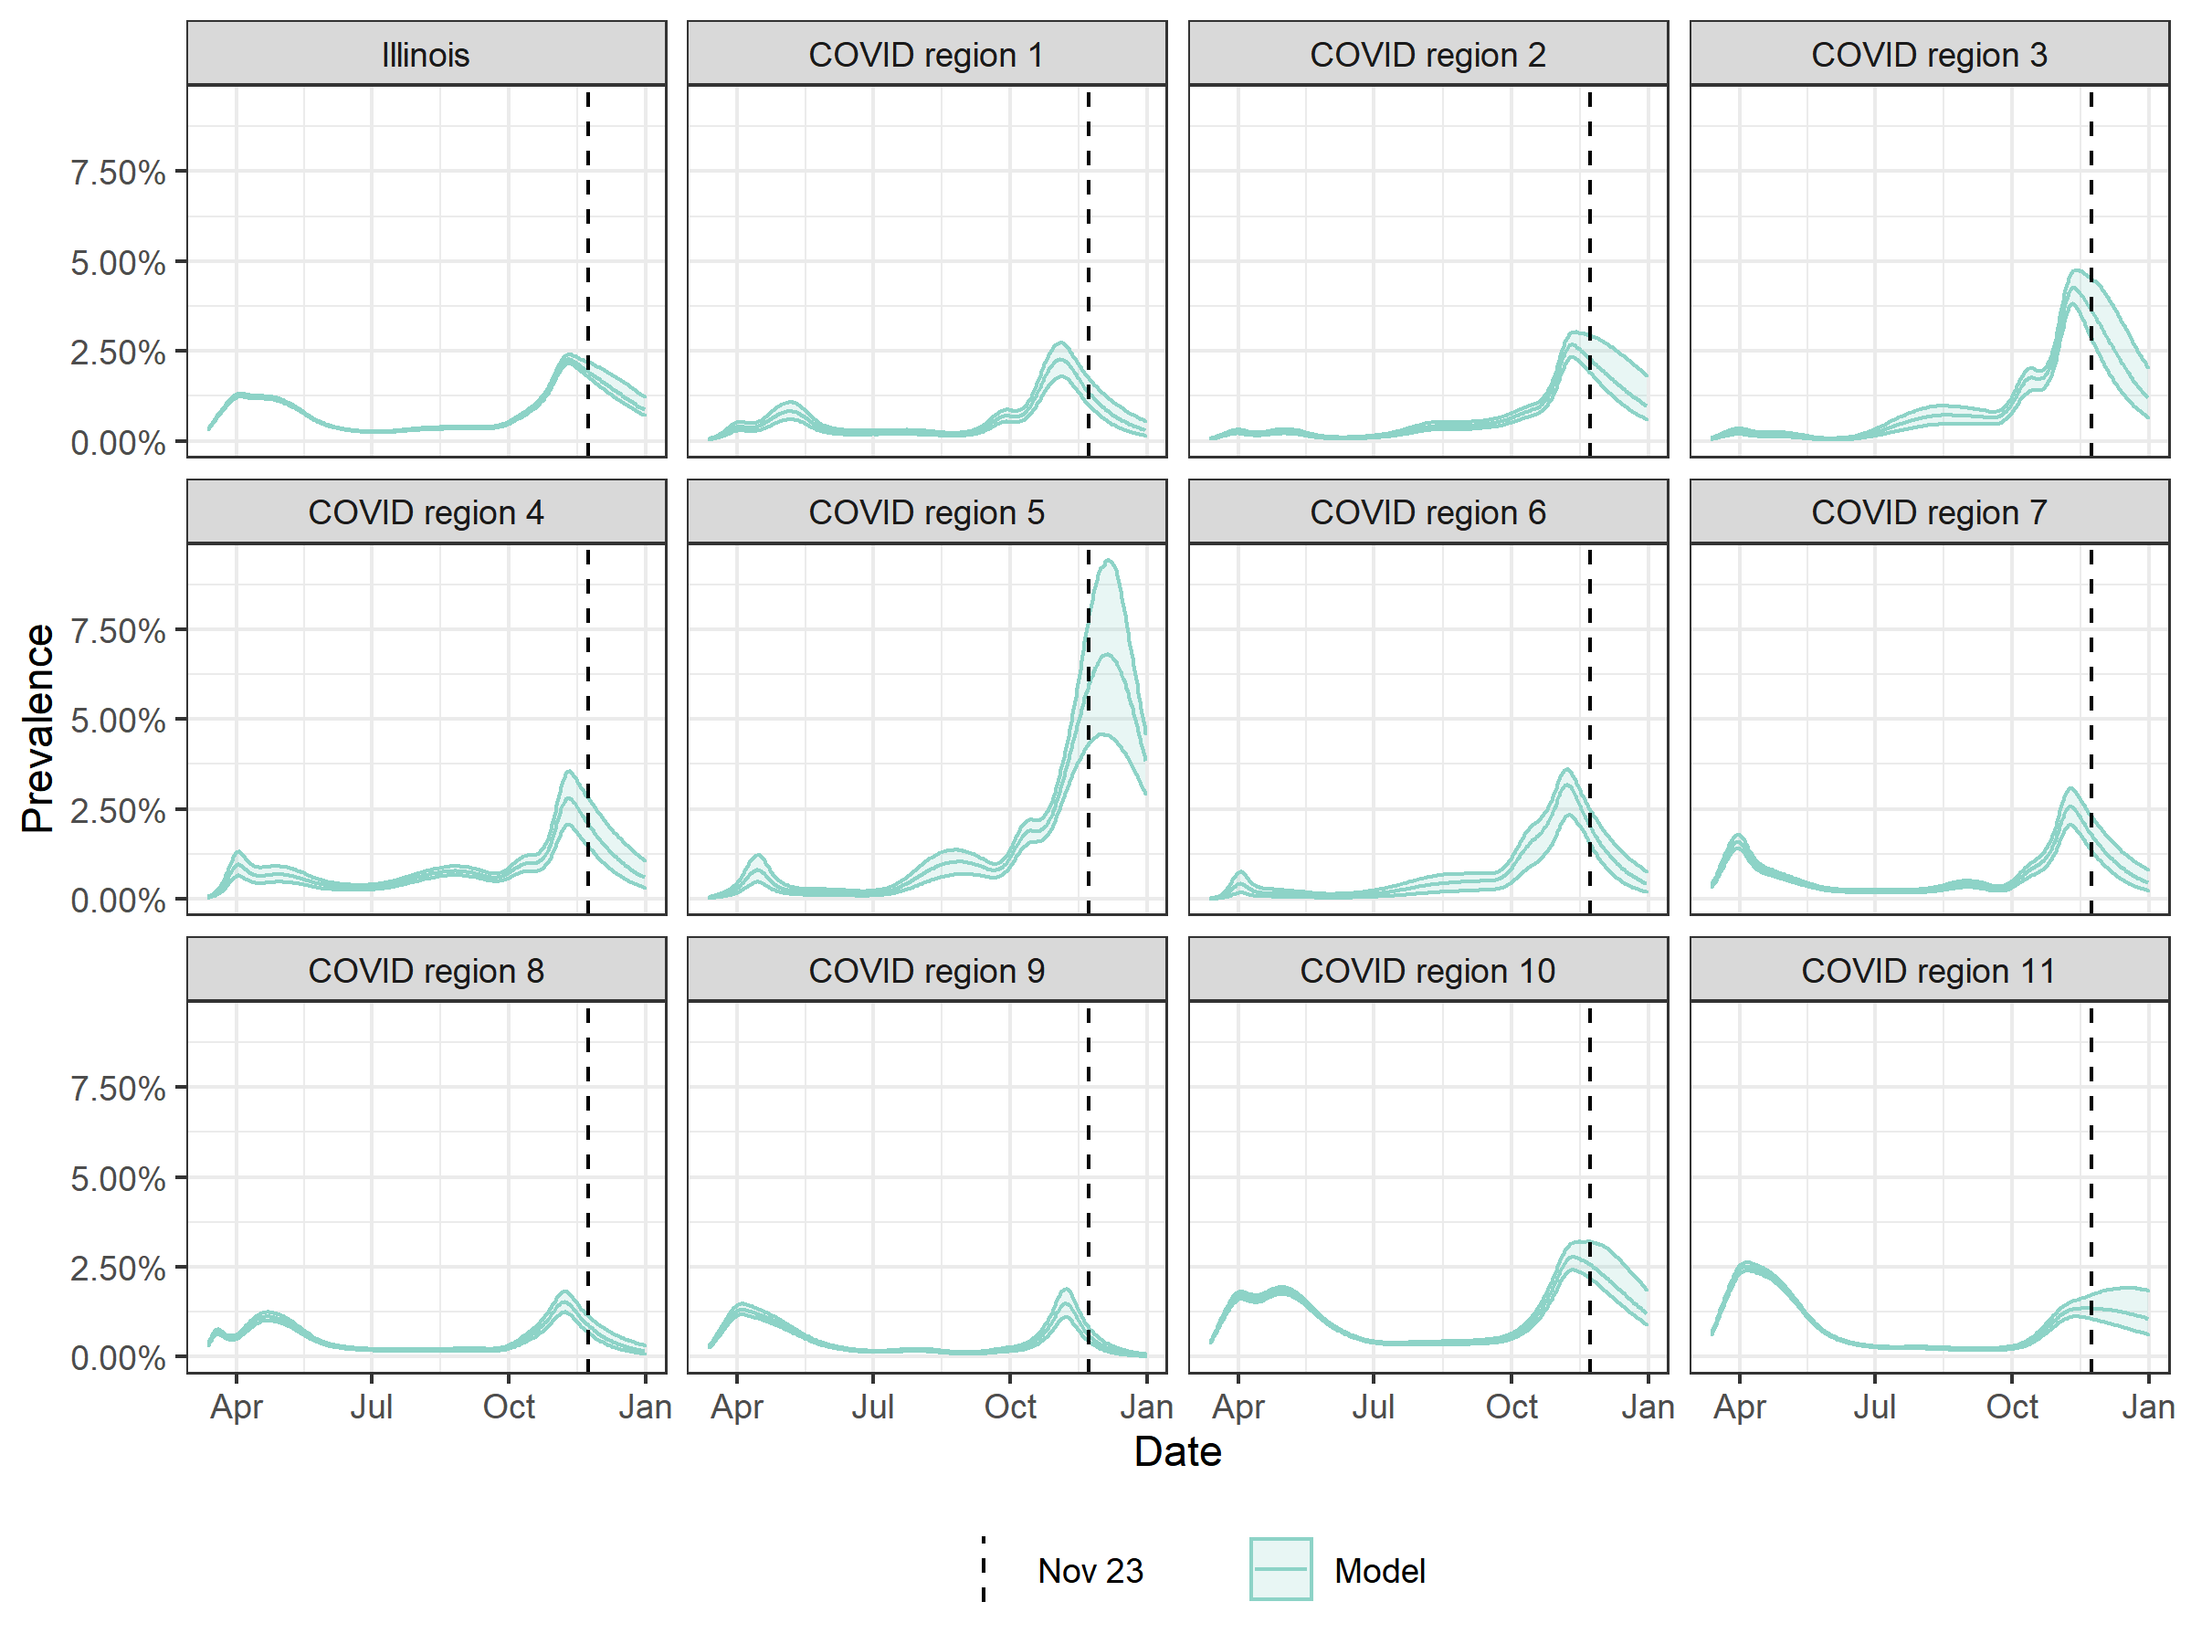
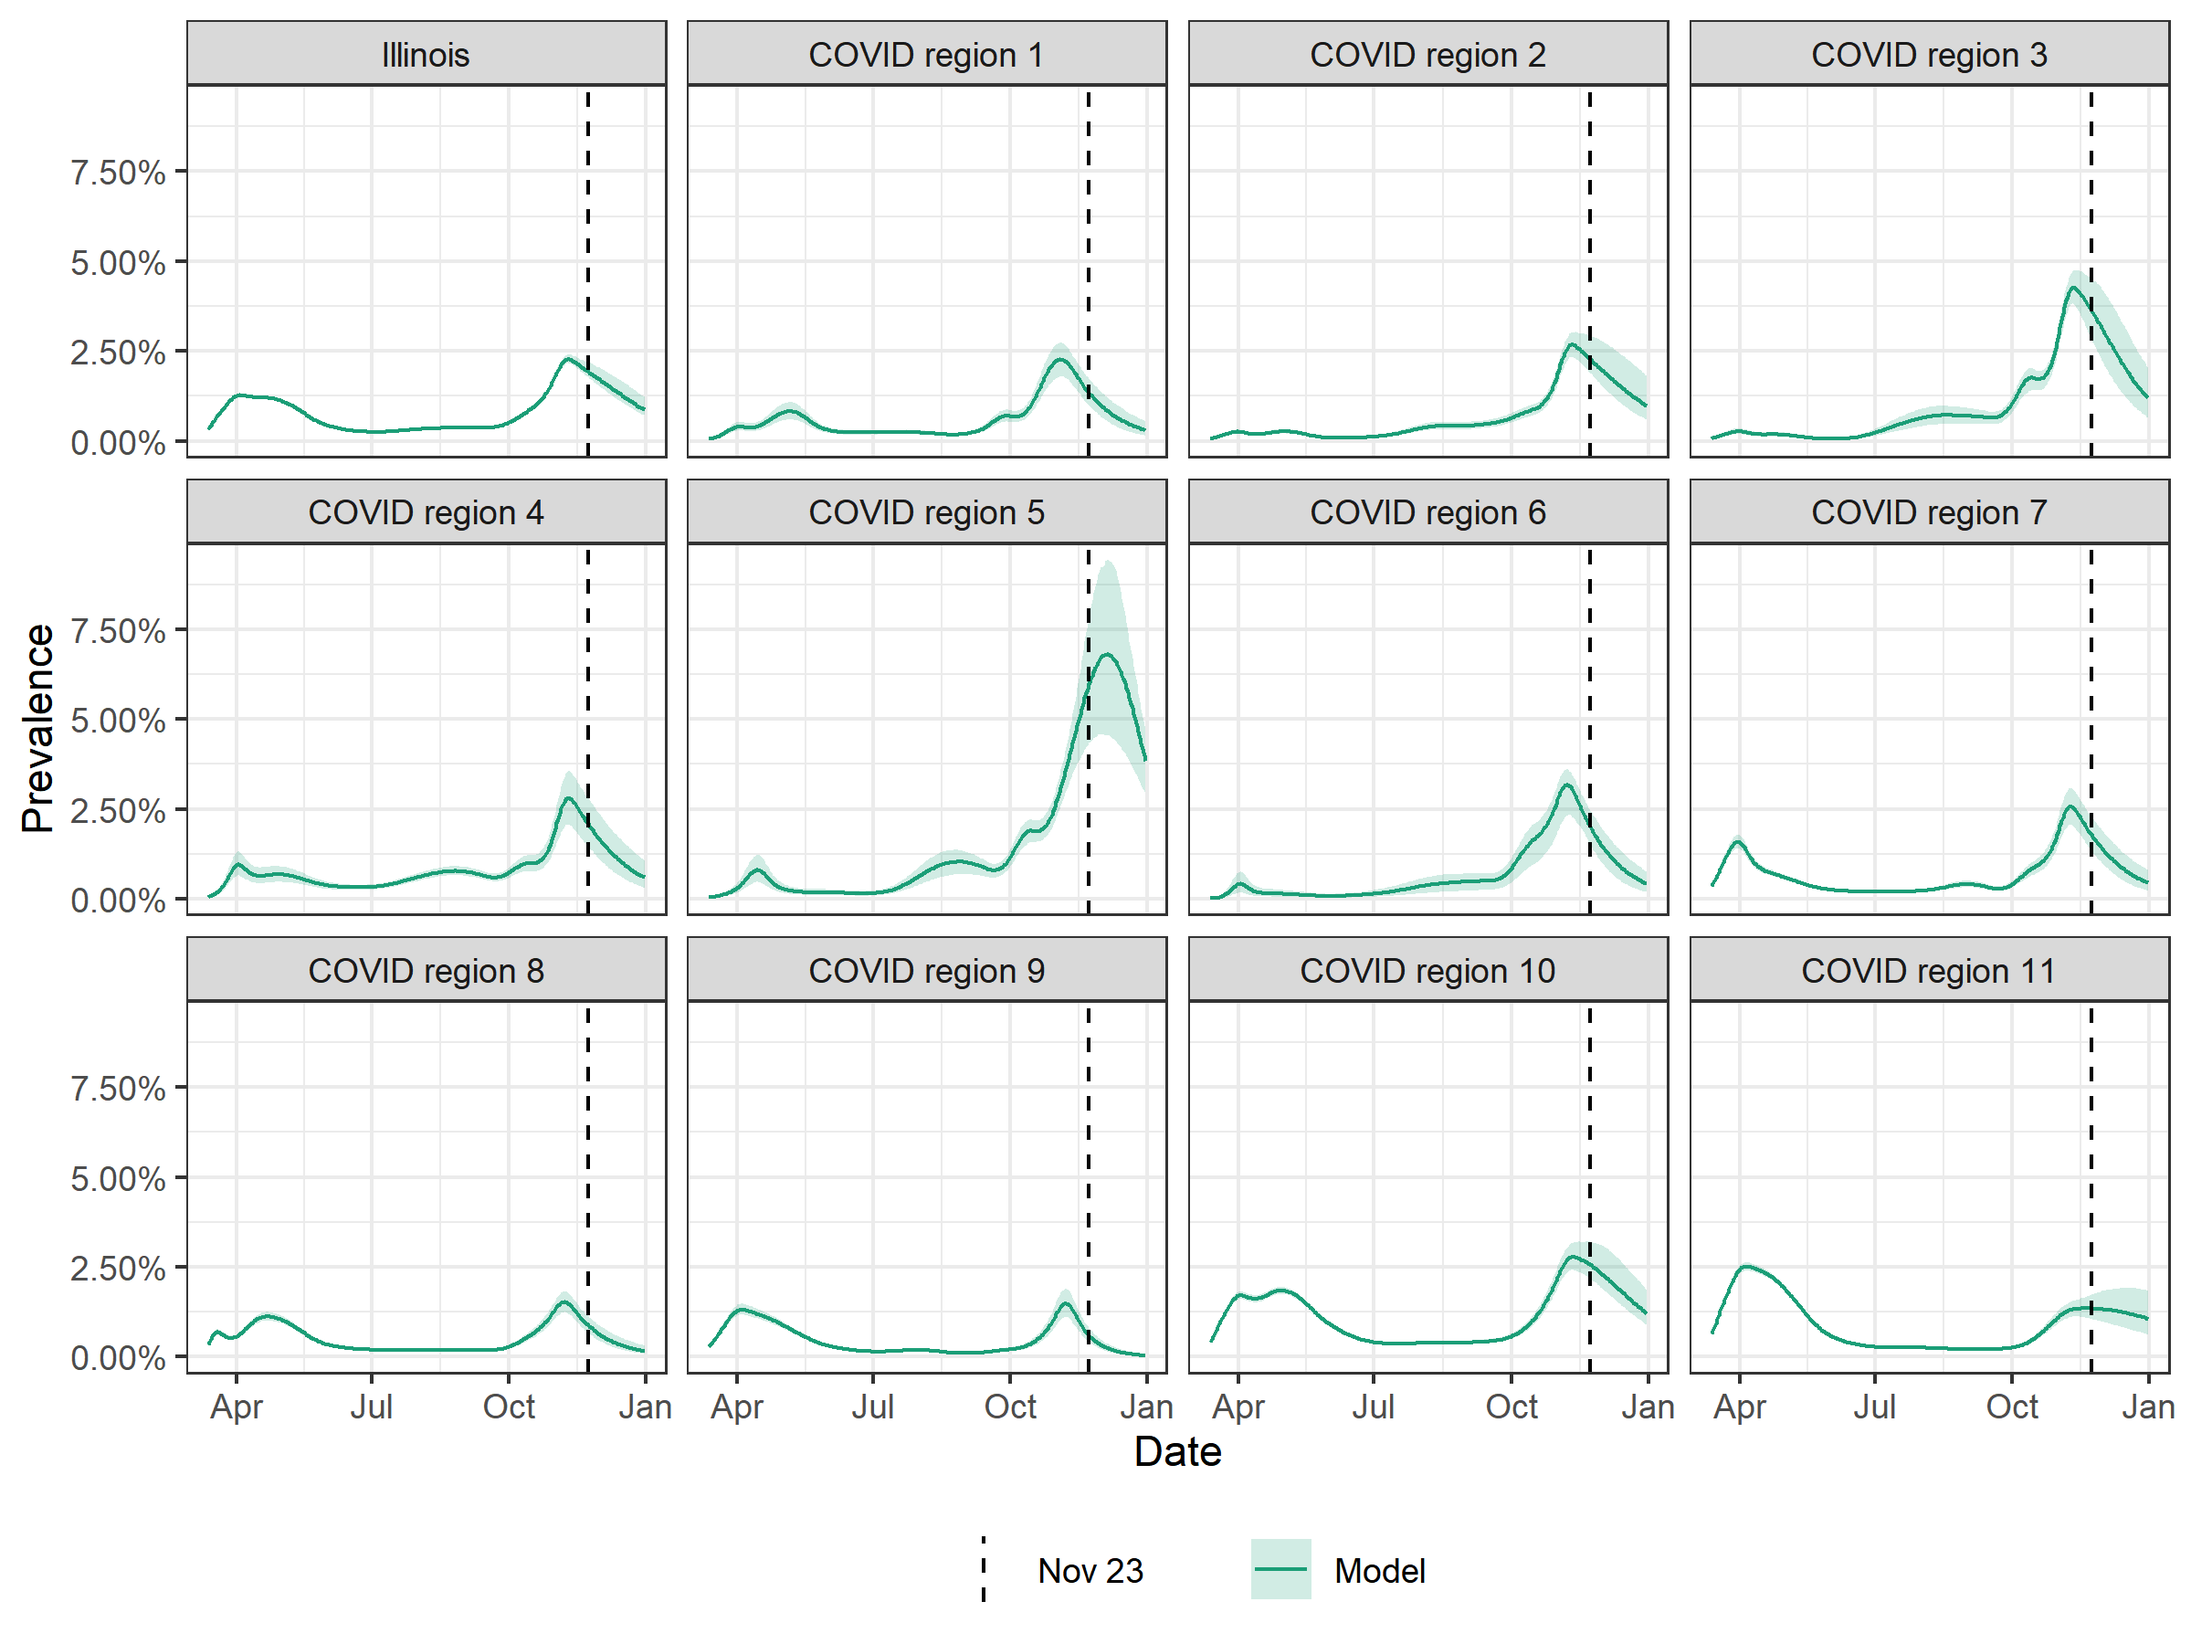
Revise README and plot aesthetics

diff --git a/Forecasting/README.md b/Forecasting/README.md
@@ -3,9 +3,8 @@
 ## Projecting infections, deaths, and hospitalizations
 
 We simulate our model forward in time to obtain projections for deaths, hospitalizations, and infections.
-To account for uncertainty in our estimate of the final transmission rate, we evaluate the likelihood of the final transmission rate over a range of values (0.9 to 1.1 times the maximum likelihood estimate).
-We then produce 1000 simulations that sample values of the final transmission rate from this range. 
-These transmission rates are sampled proportionally to likelihood, so values more consistent with the data are more likely to be sampled.  
+To account for the uncertainty in our estimate of the final transmission rate, we first evaluated the likelihood of rates within 10% of the maximum-likelihood value.  
+We then produced 1000 simulations using final transmission rates sampled proportionally to likelihood, so that values more consistent with the data were more likely to be sampled.
 
 Our model is calibrated to each of the 11 COVID regions defined by the [Restore Illinois plan](https://coronavirus.illinois.gov/s/restore-illinois-introduction) (Figure 1). 
 Statewide estimates are produced by aggregating the projections from all regions.
@@ -19,7 +18,7 @@ Below, we show the results of our model projections through December 31, 2020.
 Solid lines indicate the median projected value and the shaded area shows the 95% prediction interval. 
 The dashed line shows the latest date in the data used to calibrate the model.
 
-Figure 2: Reported deaths per day in the state of Illinois and each of the 11 COVID regions. Orange points show the reported number of daily deaths. We calibrate our model to data with precise date of death. This differs from the death counts shown here, which are subject to reporting delays.
+Figure 2: Reported deaths per day in the state of Illinois and each of the 11 COVID regions (orange, subject to reporting delays), and our model predictions for precise date of death per day (green).
 ![Figure 2](./plots/uc_deaths.png)
 
 Figure 3: Hospital beds occupied by COVID-19 patients in the state of Illinois and each of the 11 COVID regions. Orange points show the number of hospital beds occpied by COVID patients for the state of Illinois [reported to the CDC](https://healthdata.gov/dataset/covid-19-reported-patient-impact-and-hospital-capacity-state-timeseries).

diff --git a/Inference/README.md b/Inference/README.md
@@ -2,7 +2,7 @@
 
 ## Summary
 
-We calibrated our model to infer the number of people initially infected in each region of Illinois (see [Forecasts](../Forecasts)); region-specific transmission rates at 13 changepoints; the region-specific, time-varying hospitalization fatality rate (HFR); the region-specific, time-varying duration of the hospital stay; and the region-specific fraction of non-hospitalized infections that result in death.
+We calibrated our model to infer the number of people initially infected in each region of Illinois (see [Forecasts](../Forecasting)); region-specific transmission rates at 13 changepoints; the region-specific, time-varying hospitalization fatality rate (HFR); the region-specific, time-varying duration of the hospital stay; and the region-specific fraction of non-hospitalized infections that result in death.
 Other parameters were fixed ([Parameters](.../Parameters)).
 
 From a set of parameters, we can simulate both the hidden (latent) states (e.g., underlying fraction infected and immune) and observations (e.g., recorded COVID-19 deaths) of the model.
